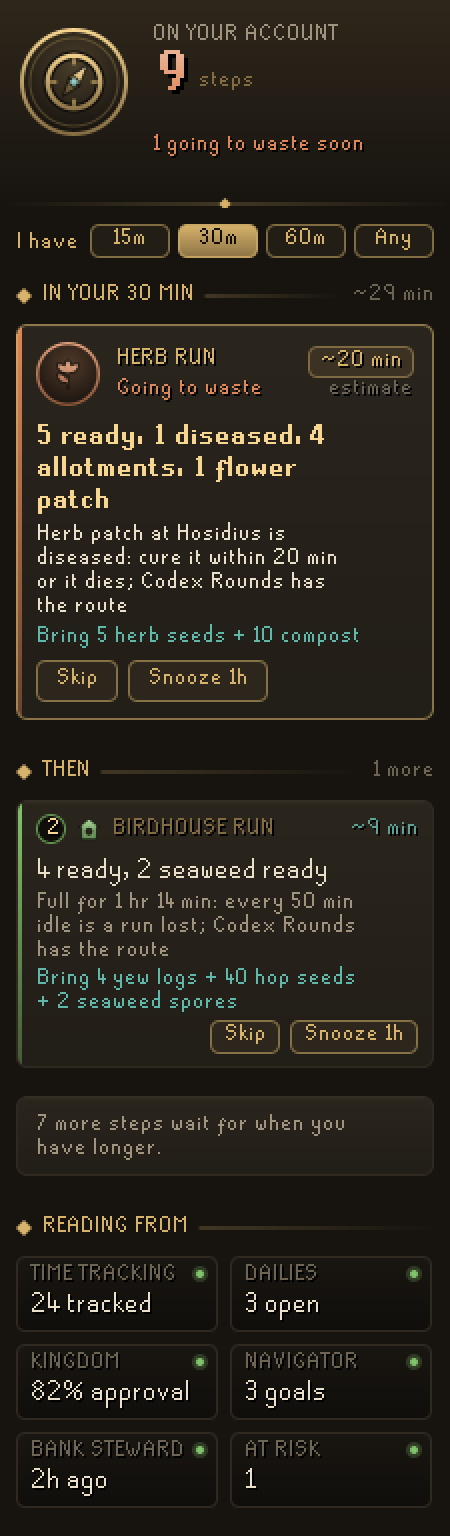
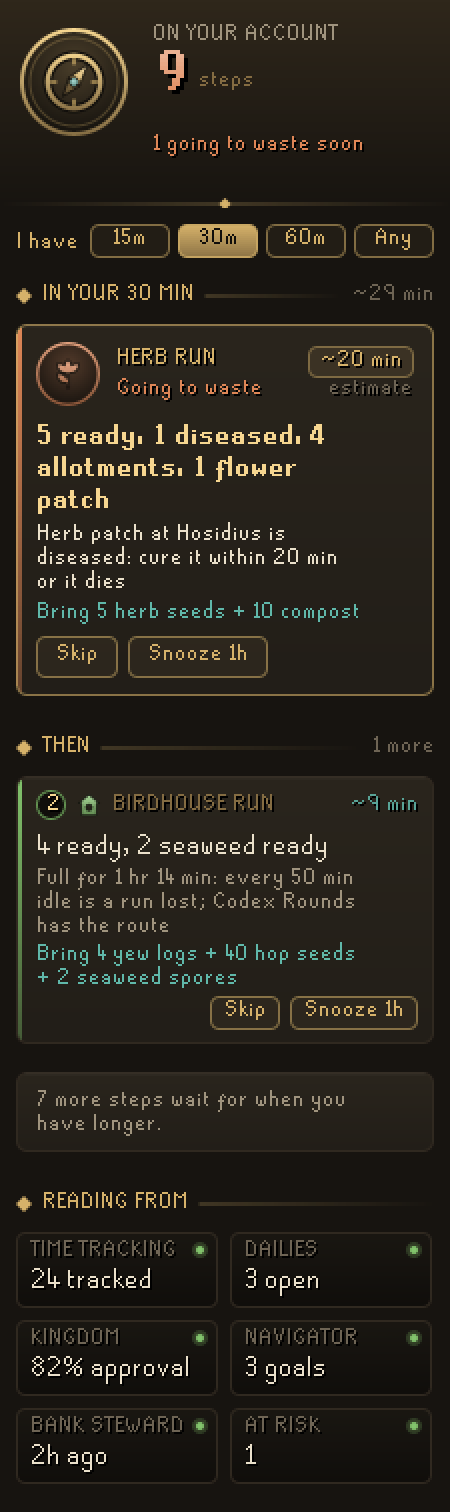
Point only bird house, tree and patch runs at Codex Rounds
Rounds does not route herb or hops runs, so those steps no longer say it has the route.

diff --git a/src/main/java/com/codex/autopilot/core/Advisor.java b/src/main/java/com/codex/autopilot/core/Advisor.java
@@ -21,6 +21,12 @@ public final class Advisor
 	{
 	}
 
+	/** Codex Rounds routes bird houses, trees and special patches; herb and hops runs are not on its round. */
+	static boolean routedByRounds(Candidate.Kind kind)
+	{
+		return kind == Candidate.Kind.BIRDHOUSE_RUN || kind == Candidate.Kind.TREE_RUN || kind == Candidate.Kind.PATCH_RUN;
+	}
+
 	/** What was read for one evaluation. Any field may be empty or null. */
 	public static final class Inputs
 	{
@@ -70,7 +76,7 @@ public final class Advisor
 					{
 						c = in.pace.apply(c);
 					}
-					out.add(s.isRounds() ? c.withNote(ROUNDS) : c);
+					out.add(s.isRounds() && routedByRounds(c.getKind()) ? c.withNote(ROUNDS) : c);
 				}
 			}
 			catch (RuntimeException e)

diff --git a/src/test/java/com/codex/autopilot/core/HerbRunTest.java b/src/test/java/com/codex/autopilot/core/HerbRunTest.java
@@ -306,7 +306,7 @@ public class HerbRunTest
 		in.dailies = Dailies.read(AutopilotCoreTest.vars(new HashMap<>()));
 		for (Candidate c : Advisor.candidates(in, Settings.defaults().rounds(true), T0))
 		{
-			assertEquals(c.toString(), c.getKind().isChore(), c.getWhy().endsWith("; " + Advisor.ROUNDS));
+			assertEquals(c.toString(), Advisor.routedByRounds(c.getKind()), c.getWhy().endsWith("; " + Advisor.ROUNDS));
 		}
 		for (Candidate c : Advisor.candidates(in, Settings.defaults(), T0))
 		{

diff --git a/README.md b/README.md
@@ -23,7 +23,7 @@ It is part of the **Codex** suite, after [Codex Navigator](https://github.com/Nu
 - **Heads-up notifications.** Through RuneLite's own notifier, once when something starts going to waste and once when a chore trip becomes ready ("Bird houses are full"). Each step is told about once; it is told again only when it changes, such as falling diseased after it was ready, or coming ready again after you did it. Logging in does not replay what was already waiting. Each kind has its own switch.
 - **Your own pace.** Times are estimates until Autopilot has seen you do a kind of run three times; then they are yours: "~9 min (your pace)" instead of "~11 min (estimate)". A run is timed from the first stop you finish (a house reset, a patch replanted) to the last, so a run left waiting for an hour does not count as an hour's work, and it is only learned from when it was the step at the top. The middle of your last seven runs is used, and a run interrupted by logging out is dropped.
 - **Time budget.** "I have 15 / 30 / 60 min / any" at the top of the panel. With a limit, the panel shows the best set of steps that fits, with the total time: anything going to waste first, then what saves most per minute. The plaque shows the first of them.
-- **Hand-off to Codex Rounds.** With Codex Rounds on, chore steps say "Codex Rounds has the route", and Rounds walks you round.
+- **Hand-off to Codex Rounds.** With Codex Rounds on, bird house, tree and special patch steps say "Codex Rounds has the route", and Rounds walks you round. Herb and hops runs are not on its round.
 - **Your goal, next.** The focused goal on your Codex Navigator board becomes a step ("Toward Quest cape: Start Monkey Madness II"), followed by your other pinned goals, those with least left first. **Goal first** in the settings lets your focused goal pass slow chores such as trees, dailies with hours to spare and the kingdom; full bird houses and anything about to go to waste still come first.
 - **What to bring.** If Codex Bank Steward has seen your bank, the step checks it: "Bring 4 yew logs + 40 hop seeds + 2 seaweed spores", or "You're out of flax" before you set off.
 - **The next five.** The panel lists the five steps after the first, each with why it is there and how long it takes. **Skip** moves a step to the end for this session; **Snooze 1h** hides it for an hour. **Bring them back** undoes both.
